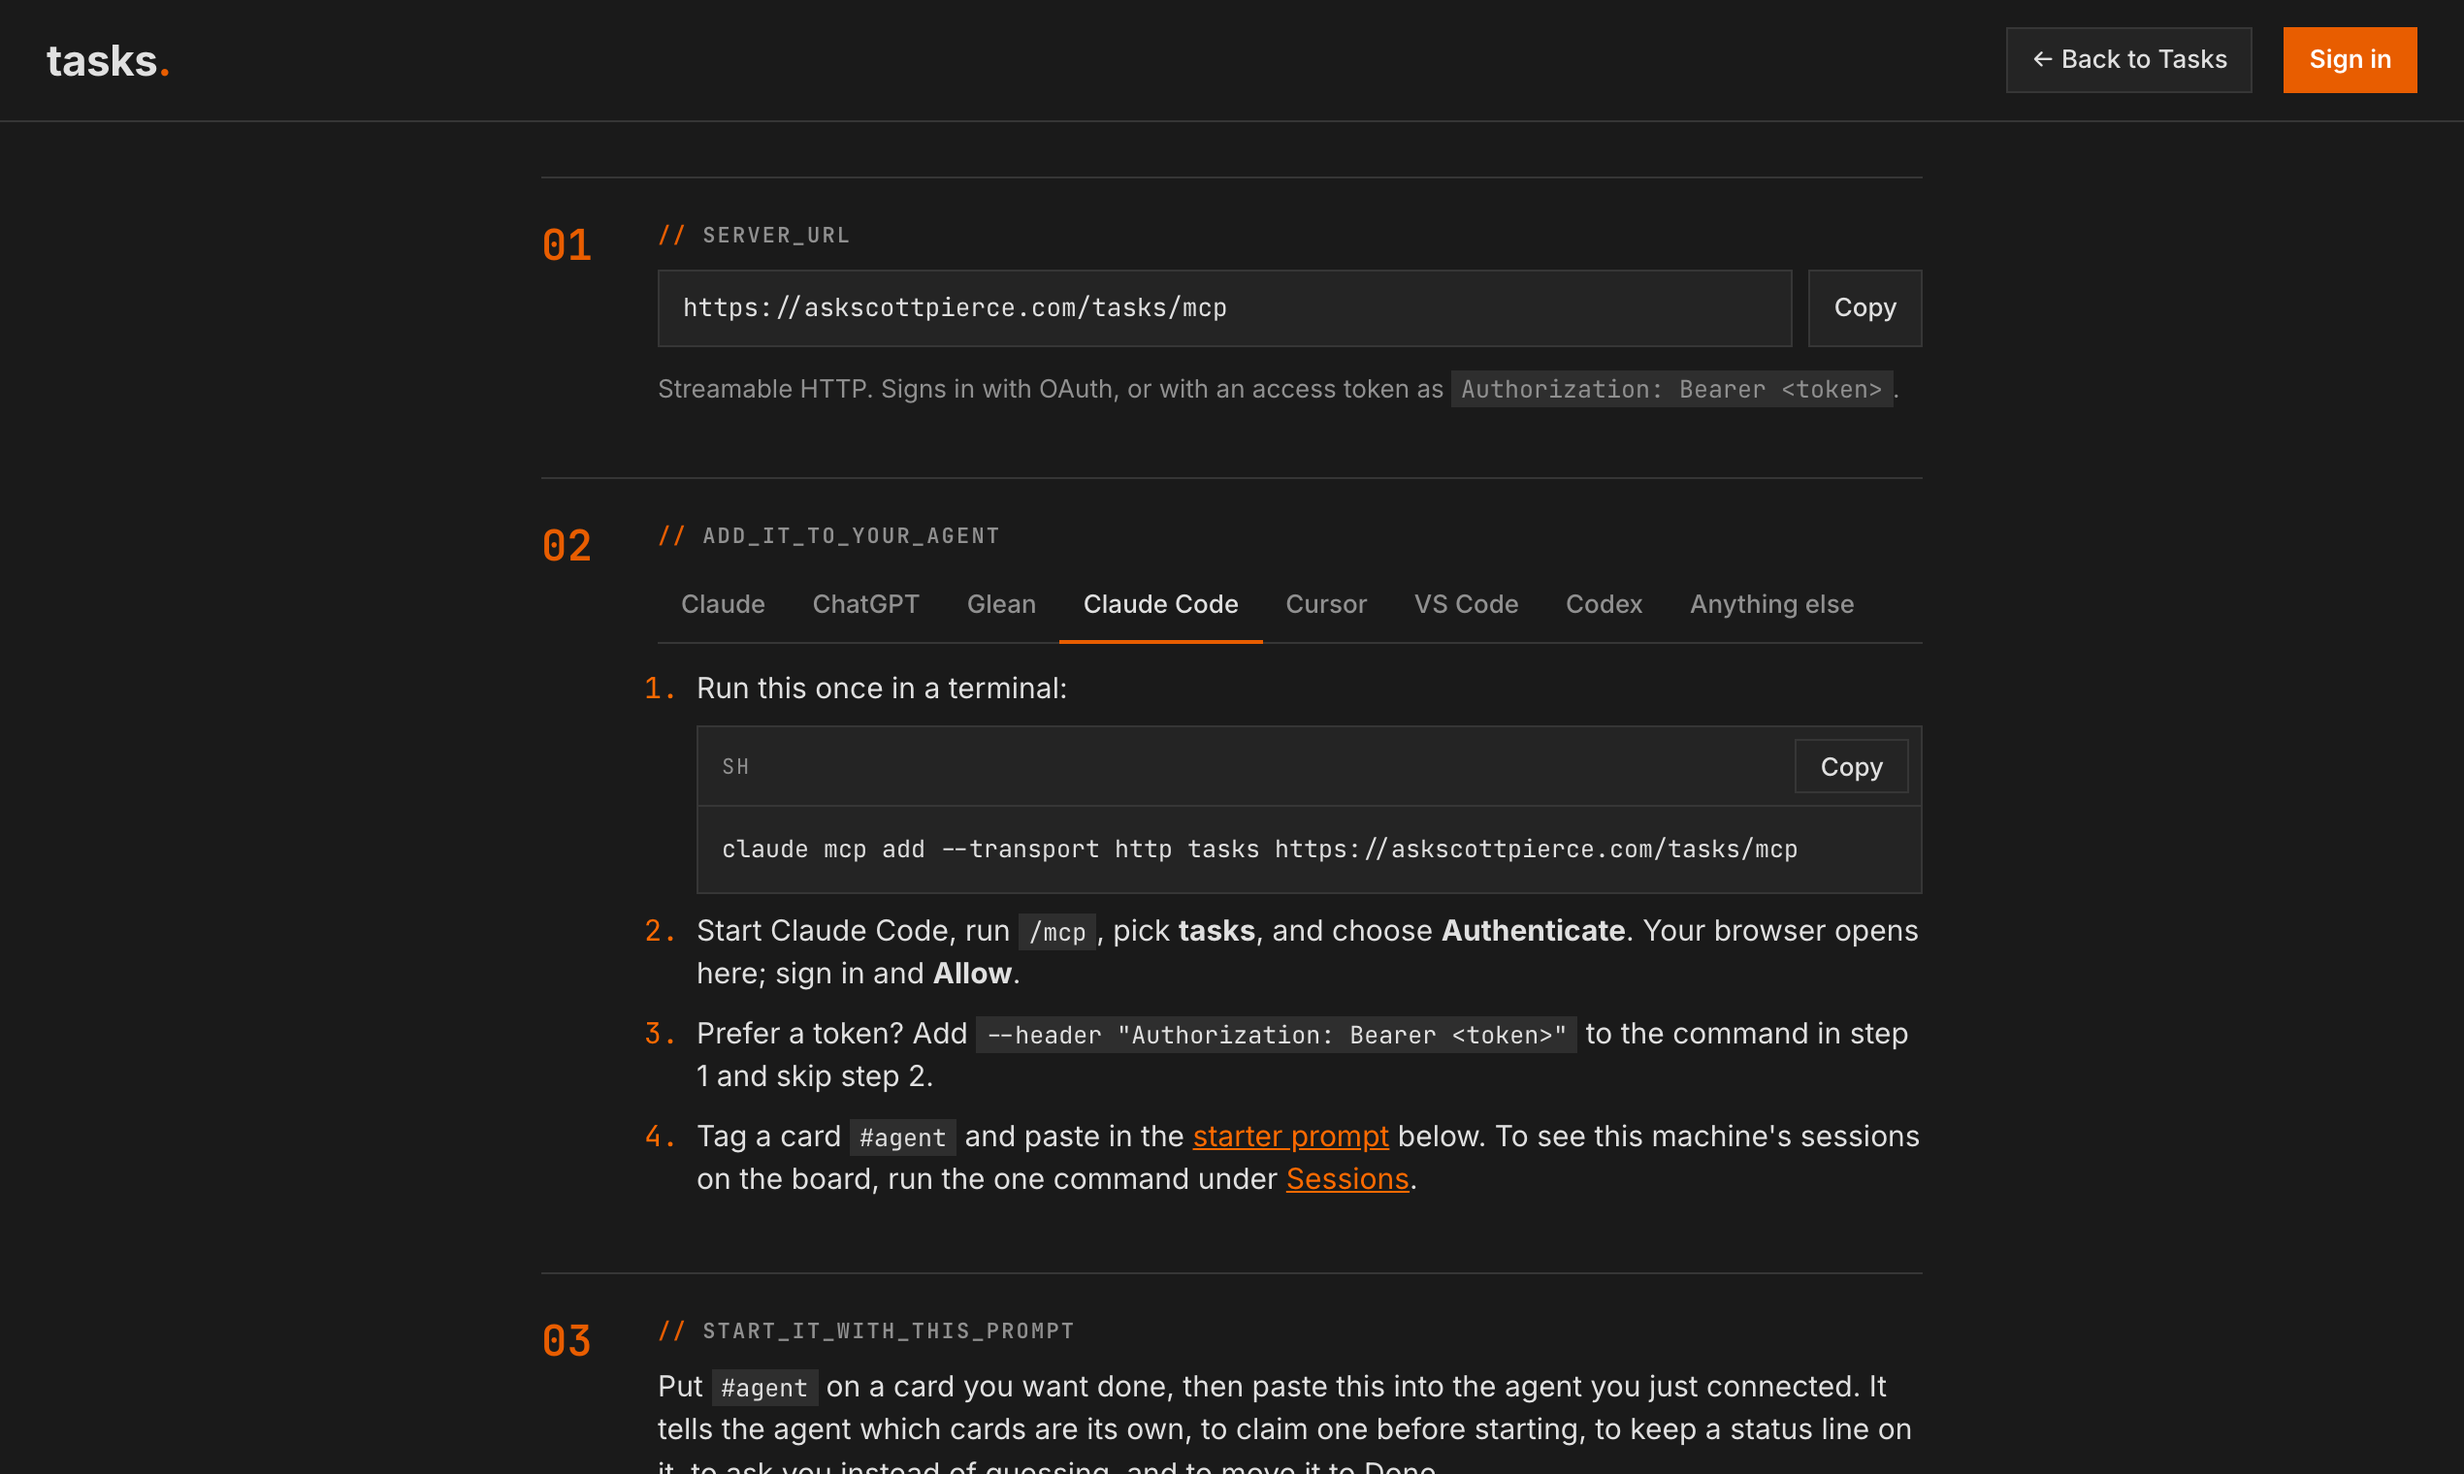
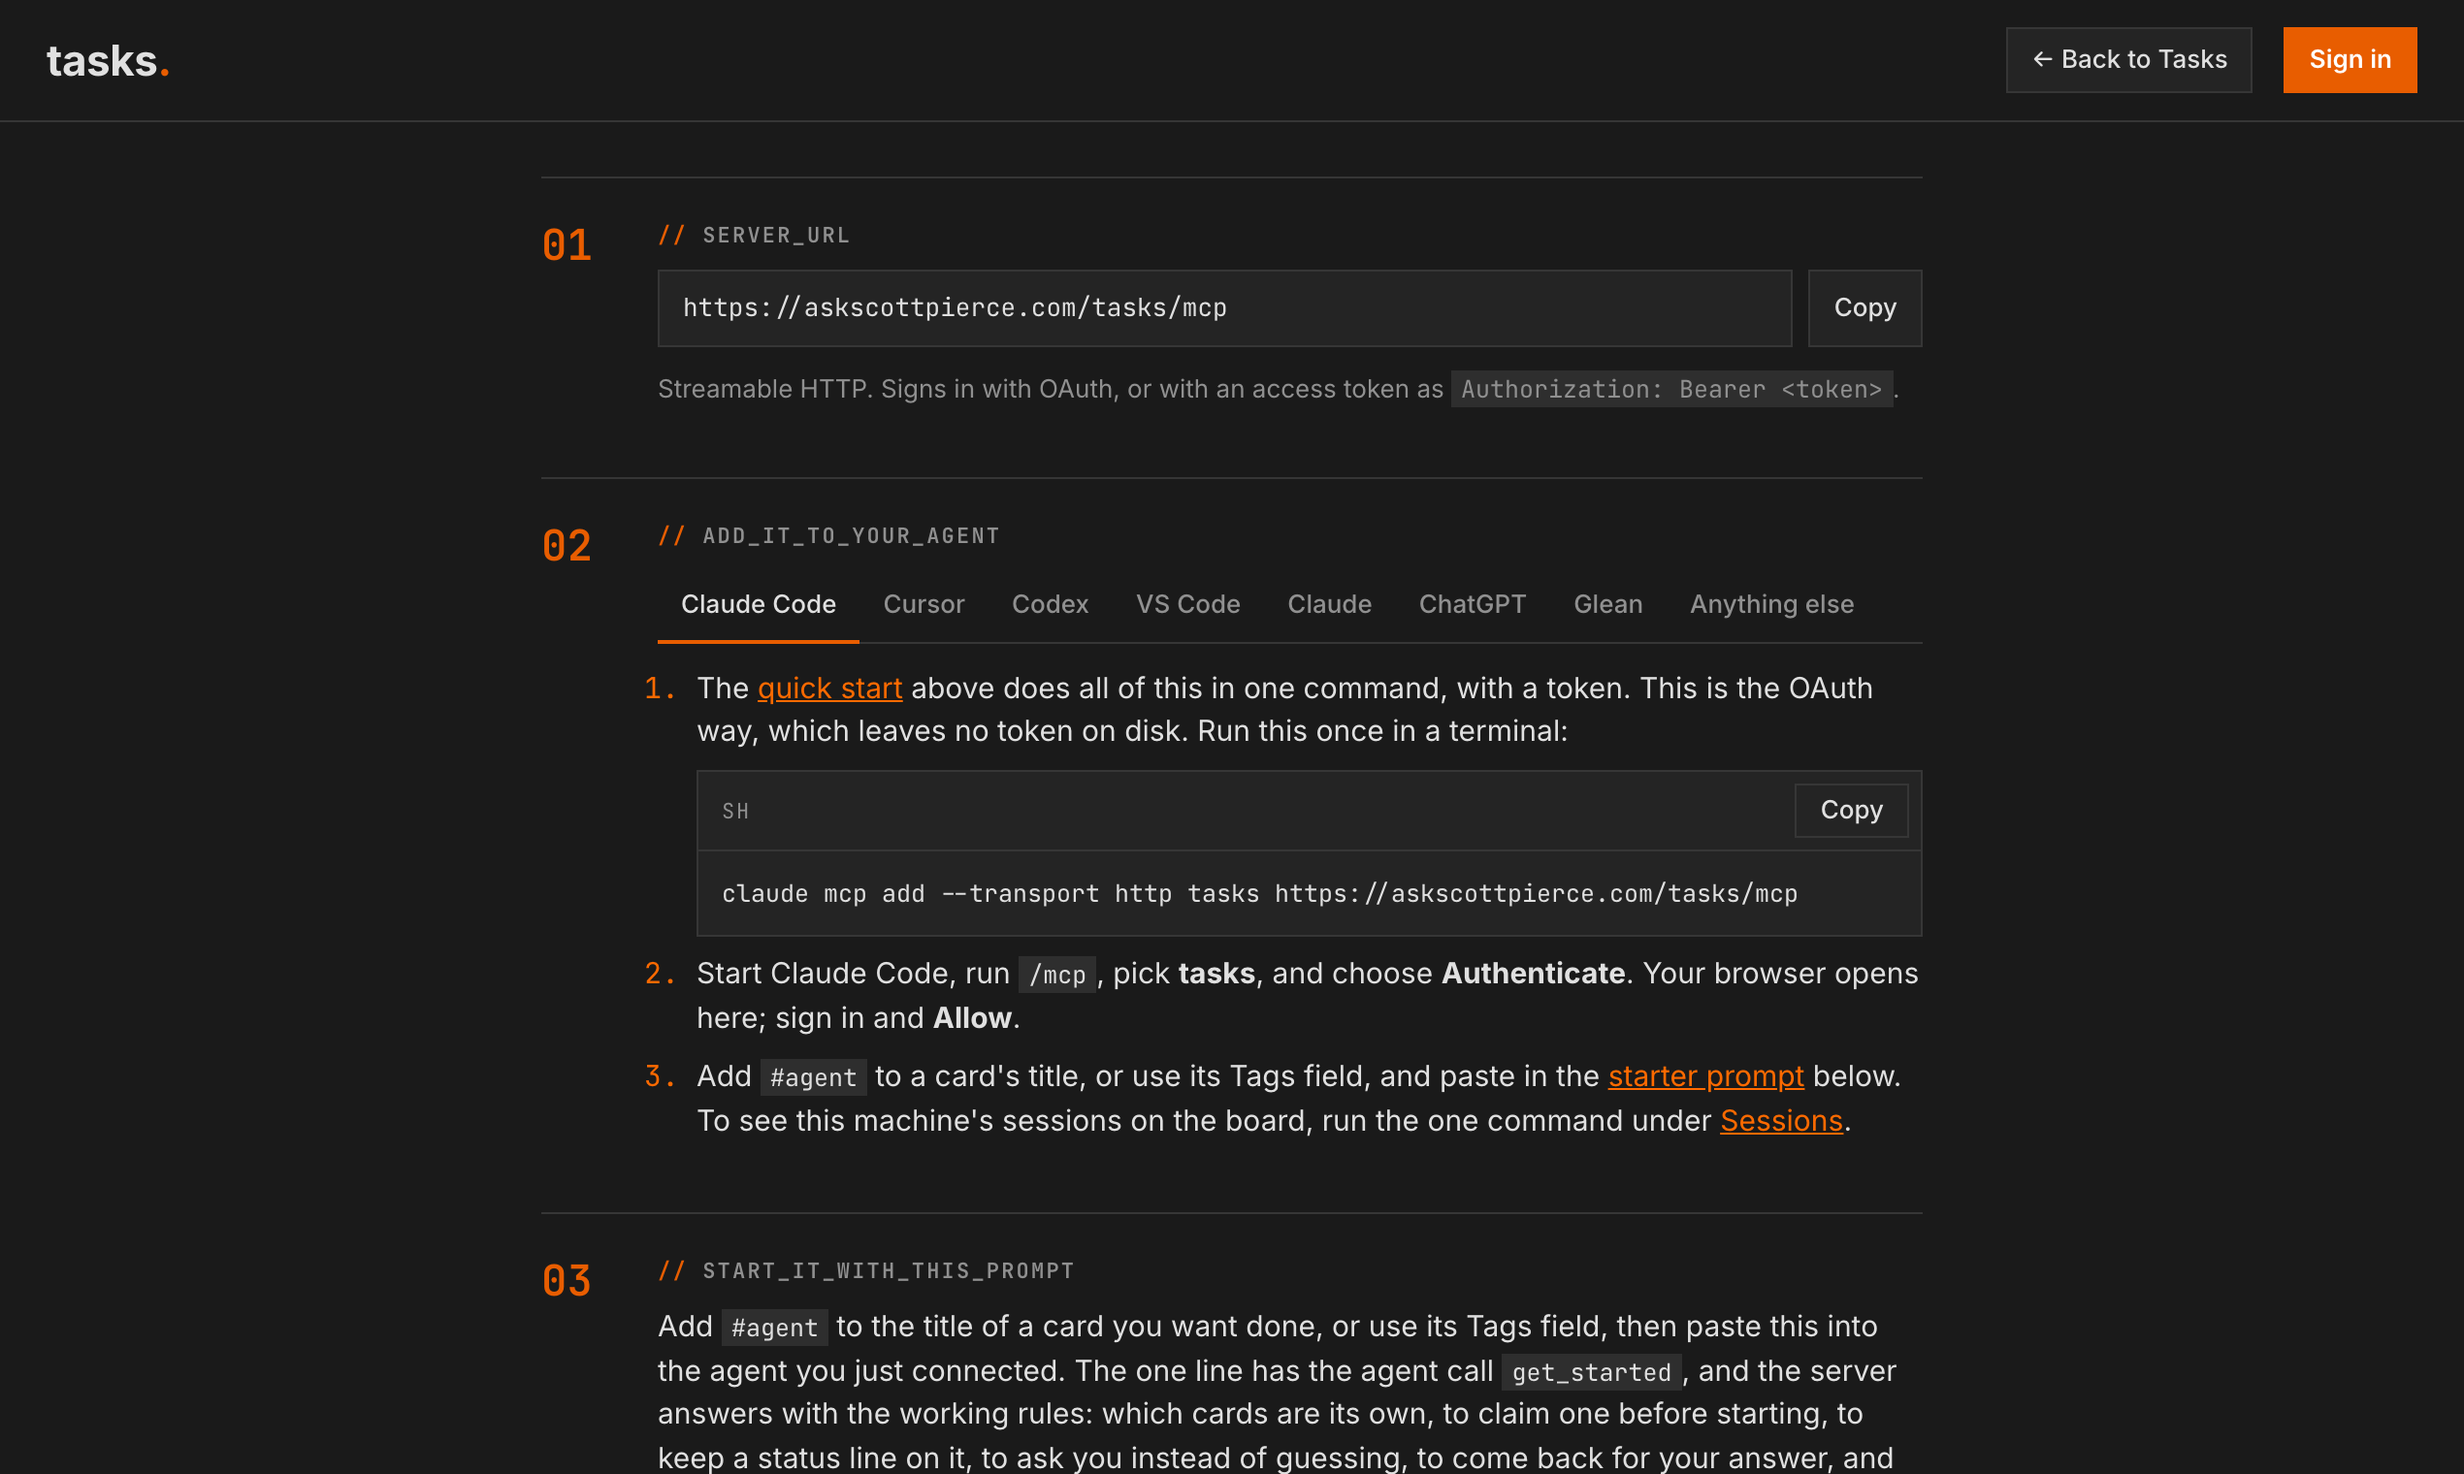
Gallery re-shot after the demo, landing, and Connect changes, with two captions that say what the pictures now show

diff --git a/docs/launch/product-hunt.md b/docs/launch/product-hunt.md
@@ -153,10 +153,10 @@ order; the first image is the one Product Hunt uses when the launch is shared.
 | File | Caption |
 |---|---|
 | `01-board-question.png` | An agent hit a decision it shouldn't make alone, so it asked on the card. The option it would pick is marked REC. Tap one and it goes back to work. |
-| `02-need-you.png` | "Need you" is one list: every open question, and every Claude Code session stopped at a prompt. Clear them in a row. |
+| `02-need-you.png` | "Need you" is one list: every open question, with the session that's waiting on it, and any other Claude Code session stopped at a prompt. Clear them in a row. |
 | `03-sessions.png` | Every Claude Code session that's reporting in, on any machine, grouped by project. Working, needs input, or idle, and the last thing each one did. |
 | `04-card.png` | An open card: the session that claimed it, its question, and its notes in markdown with a STATUS line the agent keeps current. |
-| `05-connect.png` | Setup is a URL and one command. There's a tab for Claude, ChatGPT, Glean, Claude Code, Cursor, VS Code, and Codex. |
+| `05-connect.png` | Setup is a URL and one command. There's a tab for Claude Code, Cursor, Codex, VS Code, Claude, ChatGPT, and Glean. |
 | `06-phone.png` | It's a web page, so it works on your phone. Same board, same questions, same list. |
 | `07-landing.png` | The front page. The board in it is the app's own components, not a picture. (Optional; drop it if seven is too many.) |
 | `thumbnail-240.png` | The thumbnail: the favicon's three bars. |
